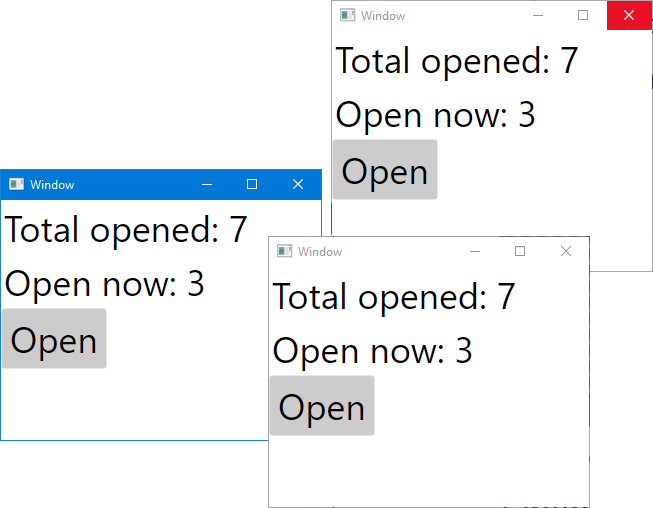
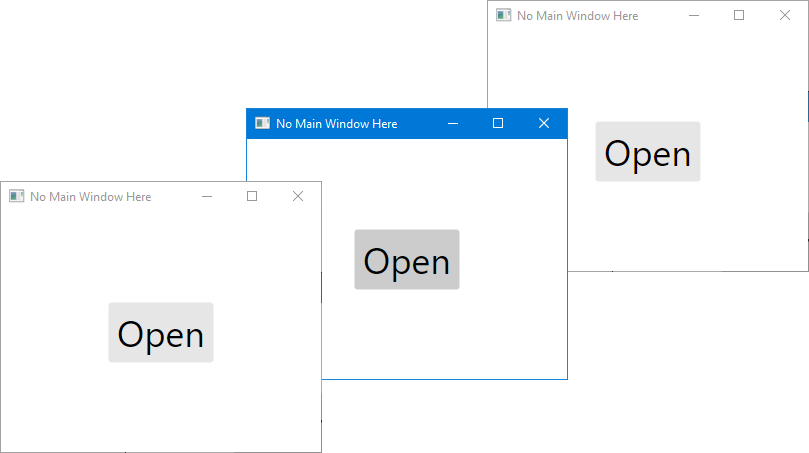
Added lifetime no main

diff --git a/samples/MultiWindowNoMain/MultiWindow.cs b/samples/MultiWindowNoMain/MultiWindow.cs
@@ -1,73 +1,30 @@
 using Avalonia.Controls;
+using Avalonia.Layout;
 
 internal class MultiWindow
 {
-    // We'll build a simple UI with two labels to show the
-    // counts and a button to open a new window.
+    public Window win;
 
-    Label openNow = new Label {FontSize = 36,};
-    Label openEver = new Label {FontSize = 36,};
-    Button button = new Button {FontSize = 36, Content = "Open", };
-    Wrangler wrangler;
-    public MultiWindow(Wrangler wrangler)
+    // A simple UI with a button to open a new window.
+
+    Button button = new Button
     {
-        // Register with the Wrangler so we get notified of
-        // any changes. But DON'T tell the wranger we have
-        // been opened ourselves. Let the code that created us
-        // do that AFTER we have been created, so any instruction
-        // reordering doesn't allow for the event to try to call
-        // our handler before the UI has been fully constructed.
+        FontSize = 36,
+        Content = "Open",
+        HorizontalAlignment = HorizontalAlignment.Center,
+    };
+    public MultiWindow()
+    {
+        button.Click += (s, e) => new MultiWindow();
 
-        wrangler.CountChanged += UpdateCounts;
-
-        // Call the method to open new window when the button is
-        // clicked.
-
-        button.Click += (s, e) => Open();
-
-        var win = new Window
+        win = new Window
         {
+            Title = "No Main Window Here",
             Height = 240,
             Width = 320,
+            Content = button,
         };
 
-        var stack = new StackPanel();
-
-        stack.Children.Add(openNow);
-        stack.Children.Add(openEver);
-        stack.Children.Add(button);
-
-        // When the window closes, make sure it notifies us so
-        // we can, in turn, inform the Wrangler.
-
-        win.Closing += (s, e) => OnClose();
-        win.Content = stack;
-
-        this.wrangler = wrangler;
-
         win.Show();
-    }
-
-    // The Wragler will call this for each window when the
-    // counts change, so they can all update their own display.
-    void UpdateCounts(int ever, int now)
-    {
-        openNow.Content = $"Total opened: {ever}";
-        openEver.Content = $"Open now: {now}";
-    }
-
-    // Avalonia will call this when our window closes. We will
-    // update the Wrangler so it knows.
-    void OnClose()
-    {
-        wrangler.Closed();
-    }
-
-    // Whatever code created us should, after the constructor
-    // returns, call this to update the Wrangler.
-    void Open()
-    {
-        new MultiWindow(wrangler);
-        wrangler.Opened();
     }
 }

diff --git a/samples/MultiWindowCancelToken/MultiWindow.cs b/samples/MultiWindowCancelToken/MultiWindow.cs
@@ -1,0 +1,73 @@
+using Avalonia.Controls;
+
+internal class MultiWindow
+{
+    // We'll build a simple UI with two labels to show the
+    // counts and a button to open a new window.
+
+    Label openNow = new Label {FontSize = 36,};
+    Label openEver = new Label {FontSize = 36,};
+    Button button = new Button {FontSize = 36, Content = "Open", };
+    Wrangler wrangler;
+    public MultiWindow(Wrangler wrangler)
+    {
+        // Register with the Wrangler so we get notified of
+        // any changes. But DON'T tell the wranger we have
+        // been opened ourselves. Let the code that created us
+        // do that AFTER we have been created, so any instruction
+        // reordering doesn't allow for the event to try to call
+        // our handler before the UI has been fully constructed.
+
+        wrangler.CountChanged += UpdateCounts;
+
+        // Call the method to open new window when the button is
+        // clicked.
+
+        button.Click += (s, e) => Open();
+
+        var win = new Window
+        {
+            Height = 240,
+            Width = 320,
+        };
+
+        var stack = new StackPanel();
+
+        stack.Children.Add(openNow);
+        stack.Children.Add(openEver);
+        stack.Children.Add(button);
+
+        // When the window closes, make sure it notifies us so
+        // we can, in turn, inform the Wrangler.
+
+        win.Closing += (s, e) => OnClose();
+        win.Content = stack;
+
+        this.wrangler = wrangler;
+
+        win.Show();
+    }
+
+    // The Wragler will call this for each window when the
+    // counts change, so they can all update their own display.
+    void UpdateCounts(int ever, int now)
+    {
+        openNow.Content = $"Total opened: {ever}";
+        openEver.Content = $"Open now: {now}";
+    }
+
+    // Avalonia will call this when our window closes. We will
+    // update the Wrangler so it knows.
+    void OnClose()
+    {
+        wrangler.Closed();
+    }
+
+    // Whatever code created us should, after the constructor
+    // returns, call this to update the Wrangler.
+    void Open()
+    {
+        new MultiWindow(wrangler);
+        wrangler.Opened();
+    }
+}

diff --git a/samples/MultiWindowNoMain/Project.cs b/samples/MultiWindowNoMain/Project.cs
@@ -1,36 +1,29 @@
 using Avalonia;
 using Avalonia.Controls;
+using Avalonia.Controls.ApplicationLifetimes;
+using Avalonia.Themes.Fluent;
 
 class Project
 {
     public static void Main(string[] args)
     {
+        // This time, we'll use an Avalonia lifetime object to shut down the
+        // application only after the last open window closes.
+
+        var lifetime = new ClassicDesktopStyleApplicationLifetime
+        {
+            Args = args,
+            ShutdownMode = ShutdownMode.OnLastWindowClose
+        };
+
         AppBuilder.Configure<Application>()
-                  .UsePlatformDetect()
-                  .Start(AppMain, args);
-    }
+            .UsePlatformDetect()
+            .AfterSetup(b => b.Instance?.Styles.Add(new FluentTheme()))
+            .SetupWithLifetime(lifetime);
 
-    public static void AppMain(Application app, string[] args)
-    {
-        app.Styles.Add(new Avalonia.Themes.Fluent.FluentTheme());
-        app.RequestedThemeVariant = Avalonia.Styling.ThemeVariant.Light;
 
-        // Singletons are generally evil. We will use one here, however,
-        // to keep track of how many windows are open, so we can shut
-        // down the application when the last one closes. This will let
-        // us open and close whatever windows we want to, in any order.
-        // In this context, no one window is the "main" window.
+        lifetime.MainWindow = new MultiWindow().win;
 
-        var wrangler = new Wrangler();
-
-        new MultiWindow(wrangler);
-        wrangler.Opened();
-
-        // Instead of passing reference to an Avalonia window to the
-        // Run method (which is what makes that window the overall main
-        // window of the application), we will pass a CancellationToken
-        // the application will monitor.
-
-        app.Run(wrangler.Cts.Token);
+        lifetime.Start(args);
     }
 }

diff --git a/samples/MultiWindowCancelToken/Project.cs b/samples/MultiWindowCancelToken/Project.cs
@@ -1,0 +1,36 @@
+using Avalonia;
+using Avalonia.Controls;
+
+class Project
+{
+    public static void Main(string[] args)
+    {
+        AppBuilder.Configure<Application>()
+                  .UsePlatformDetect()
+                  .Start(AppMain, args);
+    }
+
+    public static void AppMain(Application app, string[] args)
+    {
+        app.Styles.Add(new Avalonia.Themes.Fluent.FluentTheme());
+        app.RequestedThemeVariant = Avalonia.Styling.ThemeVariant.Light;
+
+        // Singletons are generally evil. We will use one here, however,
+        // to keep track of how many windows are open, so we can shut
+        // down the application when the last one closes. This will let
+        // us open and close whatever windows we want to, in any order.
+        // In this context, no one window is the "main" window.
+
+        var wrangler = new Wrangler();
+
+        new MultiWindow(wrangler);
+        wrangler.Opened();
+
+        // Instead of passing reference to an Avalonia window to the
+        // Run method (which is what makes that window the overall main
+        // window of the application), we will pass a CancellationToken
+        // the application will monitor.
+
+        app.Run(wrangler.Cts.Token);
+    }
+}

diff --git a/samples/ImageProcessing/Project.cs b/samples/ImageProcessing/Project.cs
@@ -22,3 +22,4 @@ class Project
         app.Run(ipw.win);
     }
 }
+

diff --git a/samples/README.md b/samples/README.md
@@ -18,6 +18,7 @@ A good learning path would be this order.
 | ButtonColors               | Replace the transparent button background with your own choices.         |
 | MultiWindowGraphics        | Multiple independent windows, each filled with graphic objects.          |
 | MultiWindowNoMain          | Multiple independent windows, none of which is the "main" app window.    |
+| MultiWindowCancelToken     | Multiple independent windows, with no "main" window, closing on a signal.|
 | ImageProcessing            | Display a bitmap image, modify its data, and display it again.           |
 | DockMenu                   | A window with a menubar using the "dock" layout.                         |
 | TextBoxWindow              | A text box copied to a label as each character is entered.               |

diff --git a/samples/MultiWindowCancelToken/README.md b/samples/MultiWindowCancelToken/README.md
@@ -1,0 +1,10 @@
+# MultiWindowCancelToken
+
+Multiple windows with no single "main" window. Close them in any order. The application runs until you close them all.
+
+The difference between this and the MultiWindowNoMain sample is that this one uses a shared common object
+that tracks how many window are open, and signals a cancelation token when the last one closes. In fact, you can signal
+the token on any condition that you would like to use for terminating your application, even with several windows
+still open.
+
+![Multiple windows](ScreenCap.png "Multiple windows.")
